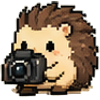
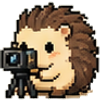
feat: 캐릭터명 수정 + 8축 순서 재설정 + 구분선 (118차-3)
- char_name 원본 설계도 기준으로 수정
  rabbit(새싹/탐험/전설의), owl(새내기/지혜로운/현자/대현자 부엉이),
  bear(손님/주민/단골/터줏대감/숲의전설 곰), fox(수습/탐정/명탐정/전설의탐정 여우),
  sparrow(공감받는/인기/스타/전설의 참새), hedgehog(기록가/포토마스터/작가),
  rare_night(밤의 순찰자), hamster_lv5(전설의 평론가 햄스터)
- 8개 축 표시 순서 재설정: 함께한날>플레이>새게임 / 기록>사진>게임평>최초기록 / 홈페이지
- 다음 업적 목표 구분선 2개 추가, 업적 전체 목록도 동일 그룹 순서 적용
- hedgehog 이미지 파일 교체

diff --git a/assets/js/achievements.js b/assets/js/achievements.js
@@ -36,20 +36,20 @@
       rewards: { character: 'cottage_master', char_name: '코티지 마스터', title: 'title_record_500' } },
     // ── first_record (부엉이) ── 해당 game_id 최초 기록 작성자 기준
     { id: 'first_record_1',  name: '첫 개척',         emoji: '🗺', type: 'first_record', threshold: 1,
-      rewards: { character: 'owl_lv1', char_name: '탐구 올빼미' } },
+      rewards: { character: 'owl_lv1', char_name: '새내기 부엉이' } },
     { id: 'first_record_3',  name: '세 게임 개척',    emoji: '⛺', type: 'first_record', threshold: 3,
       rewards: { title: 'title_first_record_3' } },
     { id: 'first_record_5',  name: '다섯 게임 개척',  emoji: '🧭', type: 'first_record', threshold: 5,
-      rewards: { character: 'owl_lv2', char_name: '연구 올빼미' } },
+      rewards: { character: 'owl_lv2', char_name: '지혜로운 부엉이' } },
     { id: 'first_record_10', name: '개척자',          emoji: '🌟', type: 'first_record', threshold: 10,
       rewards: { title: 'title_first_record_10' } },
     { id: 'first_record_20', name: '코티지 개척단',   emoji: '🏅', type: 'first_record', threshold: 20,
-      rewards: { character: 'owl_lv3', char_name: '박학 올빼미' } },
+      rewards: { character: 'owl_lv3', char_name: '현자 부엉이' } },
     { id: 'first_record_50', name: '전설의 개척자',   emoji: '✨', type: 'first_record', threshold: 50,
-      rewards: { character: 'owl_lv4', char_name: '전설 올빼미', title: 'title_first_record_50', voucher: true } },
+      rewards: { character: 'owl_lv4', char_name: '대현자 부엉이', title: 'title_first_record_50', voucher: true } },
     // ── new_game (토끼) ── 작성자 기준 새 게임 탐험
     { id: 'new_game_1',   name: '첫 탐험',           emoji: '✨', type: 'new_game', threshold: 1,
-      rewards: { character: 'rabbit_lv1', char_name: '탐험 토끼' } },
+      rewards: { character: 'rabbit_lv1', char_name: '새싹 토끼' } },
     { id: 'new_game_3',   name: '게임 입문',         emoji: '🎮', type: 'new_game', threshold: 3,   rewards: {} },
     { id: 'new_game_5',   name: '다섯 번째 탐험',    emoji: '🔍', type: 'new_game', threshold: 5,
       rewards: { character: 'rabbit_lv2', char_name: '호기심 토끼' } },
@@ -57,7 +57,7 @@
     { id: 'new_game_10',  name: '열 가지 탐험',      emoji: '🎲', type: 'new_game', threshold: 10,  rewards: {} },
     { id: 'new_game_15',  name: '게임 수집가',       emoji: '🐰', type: 'new_game', threshold: 15,  rewards: {} },
     { id: 'new_game_20',  name: '스무 가지 탐험',    emoji: '🎒', type: 'new_game', threshold: 20,
-      rewards: { character: 'rabbit_lv3', char_name: '모험 토끼', voucher: true } },
+      rewards: { character: 'rabbit_lv3', char_name: '탐험 토끼', voucher: true } },
     { id: 'new_game_30',  name: '서른 가지 탐험',    emoji: '🗺', type: 'new_game', threshold: 30,
       rewards: { title: 'title_new_game_30' } },
     { id: 'new_game_40',  name: '게임 전도사',       emoji: '📢', type: 'new_game', threshold: 40,  rewards: {} },
@@ -73,27 +73,27 @@
       rewards: { title: 'title_new_game_200' } },
     { id: 'new_game_250', name: '핼러윈 수집가',     emoji: '🎃', type: 'new_game', threshold: 250, rewards: {} },
     { id: 'new_game_300', name: '삼백 종 탐험',      emoji: '🌍', type: 'new_game', threshold: 300,
-      rewards: { character: 'rabbit_lv6', char_name: '방랑 토끼', title: 'title_new_game_300' } },
+      rewards: { character: 'rabbit_lv6', char_name: '전설의 토끼', title: 'title_new_game_300' } },
     // ── play (곰) ── player_names 닉네임 기반 보조 업적
     { id: 'play_5',   name: '게임 친구',       emoji: '🤝', type: 'play', threshold: 5,   rewards: {} },
     { id: 'play_10',  name: '활발한 참여자',   emoji: '🎮', type: 'play', threshold: 10,
-      rewards: { character: 'bear_lv1', char_name: '단골 곰' } },
+      rewards: { character: 'bear_lv1', char_name: '손님 곰' } },
     { id: 'play_20',  name: '게임 동반자',     emoji: '🎲', type: 'play', threshold: 20,
       rewards: { title: 'title_play_20' } },
     { id: 'play_30',  name: '코티지 플레이어', emoji: '🎯', type: 'play', threshold: 30,  rewards: {} },
     { id: 'play_50',  name: '코티지 피플',     emoji: '🌟', type: 'play', threshold: 50,
-      rewards: { character: 'bear_lv2', char_name: '활발한 곰' } },
+      rewards: { character: 'bear_lv2', char_name: '주민 곰' } },
     { id: 'play_100', name: '백전노장',        emoji: '🏆', type: 'play', threshold: 100,
-      rewards: { character: 'rare_night', char_name: '밤의 올빼미', voucher: true } },
+      rewards: { character: 'rare_night', char_name: '밤의 순찰자', voucher: true } },
     { id: 'play_150', name: '코티지 레전드',   emoji: '⚜', type: 'play', threshold: 150,
-      rewards: { character: 'bear_lv3', char_name: '놀이 곰돌이' } },
+      rewards: { character: 'bear_lv3', char_name: '단골 곰' } },
     { id: 'play_200', name: '게임왕',          emoji: '👑', type: 'play', threshold: 200,
       rewards: { title: 'title_play_200' } },
     { id: 'play_300', name: '코티지 신화',     emoji: '🌙', type: 'play', threshold: 300, rewards: {} },
     { id: 'play_400', name: '전설의 게이머',   emoji: '✨', type: 'play', threshold: 400,
-      rewards: { character: 'bear_lv4', char_name: '코티지 곰' } },
+      rewards: { character: 'bear_lv4', char_name: '터줏대감 곰' } },
     { id: 'play_500', name: '코티지 마스터',   emoji: '✨', type: 'play', threshold: 500,
-      rewards: { character: 'bear_lv5', char_name: '동면 곰', title: 'title_play_500' } },
+      rewards: { character: 'bear_lv5', char_name: '숲의 전설 곰', title: 'title_play_500' } },
     // ── photo (고슴도치)
     { id: 'photo_1',   name: '첫 사진',           emoji: '📸', type: 'photo', threshold: 1,
       rewards: { character: 'hedgehog_lv1', char_name: '초보 고슴도치' } },
@@ -103,17 +103,17 @@
     { id: 'photo_10',  name: '순간 수집',          emoji: '🖼', type: 'photo', threshold: 10,
       rewards: { title: 'title_photo_10' } },
     { id: 'photo_20',  name: '스무 장의 기록',     emoji: '🎞', type: 'photo', threshold: 20,
-      rewards: { character: 'hedgehog_lv2', char_name: '기록 고슴도치' } },
+      rewards: { character: 'hedgehog_lv2', char_name: '기록가 고슴도치' } },
     { id: 'photo_30',  name: '사진 작가',          emoji: '📷', type: 'photo', threshold: 30,  rewards: {} },
     { id: 'photo_50',  name: '기억 포착',          emoji: '🎞', type: 'photo', threshold: 50,
       rewards: { title: 'title_photo_50' } },
     { id: 'photo_75',  name: '필름 요정',          emoji: '🧚', type: 'photo', threshold: 75,  rewards: {} },
     { id: 'photo_100', name: '백 장의 기억',       emoji: '📷', type: 'photo', threshold: 100,
-      rewards: { character: 'hedgehog_lv3', char_name: '기록가 고슴도치', voucher: true } },
+      rewards: { character: 'hedgehog_lv3', char_name: '포토마스터 고슴도치', voucher: true } },
     { id: 'photo_150', name: '사진 마스터',        emoji: '🎨', type: 'photo', threshold: 150,
       rewards: { title: 'title_photo_150' } },
     { id: 'photo_200', name: '이백 장의 추억',     emoji: '🎨', type: 'photo', threshold: 200,
-      rewards: { character: 'hedgehog_lv4', char_name: '포토마스터 고슴도치' } },
+      rewards: { character: 'hedgehog_lv4', char_name: '작가 고슴도치' } },
     { id: 'photo_300', name: '사진 예술가',        emoji: '🖼', type: 'photo', threshold: 300,
       rewards: { title: 'title_photo_300' } },
     { id: 'photo_500', name: '전설의 사진가',      emoji: '🎭', type: 'photo', threshold: 500,
@@ -146,28 +146,28 @@
     { id: 'review_300', name: '삼백 번의 감상',     emoji: '🏆', type: 'review', threshold: 300,
       rewards: { title: 'title_review_300' } },
     { id: 'review_500', name: '전설의 리뷰어',      emoji: '✨', type: 'review', threshold: 500,
-      rewards: { character: 'hamster_lv5', char_name: '마스터 햄스터' } },
+      rewards: { character: 'hamster_lv5', char_name: '전설의 평론가 햄스터' } },
     // ── visit (참새)
     { id: 'visit_3',   name: '코티지 방문객',      emoji: '✨', type: 'visit', threshold: 3,
-      rewards: { character: 'sparrow_lv1', char_name: '방문 참새' } },
+      rewards: { character: 'sparrow_lv1', char_name: '공감받는 참새' } },
     { id: 'visit_5',   name: '코티지 친구',        emoji: '🤗', type: 'visit', threshold: 5,   rewards: {} },
     { id: 'visit_10',  name: '코티지 단골',        emoji: '☕', type: 'visit', threshold: 10,
       rewards: { title: 'title_visit_10' } },
     { id: 'visit_15',  name: '코티지 팬',          emoji: '💙', type: 'visit', threshold: 15,  rewards: {} },
     { id: 'visit_20',  name: '코티지 단골 Lv2',   emoji: '☕', type: 'visit', threshold: 20,
-      rewards: { character: 'sparrow_lv2', char_name: '단골 참새' } },
+      rewards: { character: 'sparrow_lv2', char_name: '인기 참새' } },
     { id: 'visit_25',  name: '코티지의 기둥',      emoji: '🏛', type: 'visit', threshold: 25,  rewards: {} },
     { id: 'visit_30',  name: '코티지 이웃',        emoji: '🏡', type: 'visit', threshold: 30,
       rewards: { title: 'title_visit_30' } },
     { id: 'visit_40',  name: '오랜 인연',          emoji: '🤝', type: 'visit', threshold: 40,  rewards: {} },
     { id: 'visit_50',  name: '코티지 주민',        emoji: '🔥', type: 'visit', threshold: 50,
-      rewards: { character: 'sparrow_lv3', char_name: '주민 참새' } },
+      rewards: { character: 'sparrow_lv3', char_name: '스타 참새' } },
     { id: 'visit_75',  name: '코티지 충성단',      emoji: '⚔', type: 'visit', threshold: 75,  rewards: {} },
     { id: 'visit_100', name: '터줏대감',           emoji: '🌳', type: 'visit', threshold: 100,
       rewards: { title: 'title_visit_100' } },
     { id: 'visit_150', name: '코티지 수호자',      emoji: '🛡', type: 'visit', threshold: 150, rewards: {} },
     { id: 'visit_200', name: '코티지의 오랜 친구', emoji: '🐦', type: 'visit', threshold: 200,
-      rewards: { character: 'sparrow_lv4', char_name: '코티지 참새', voucher: true } },
+      rewards: { character: 'sparrow_lv4', char_name: '전설의 참새', voucher: true } },
     { id: 'visit_300', name: '코티지 원로',        emoji: '👑', type: 'visit', threshold: 300,
       rewards: { title: 'title_visit_300' } },
     { id: 'visit_400', name: '코티지의 산타',      emoji: '🎄', type: 'visit', threshold: 400, rewards: {} },
@@ -176,17 +176,17 @@
     // ── balance (여우) ── 함께한 날. 매장에 함께한 고유 날짜 수. user_id 작성자 + player_names 참여자 병행.
     // [임시] player_names 텍스트 기반 보조 판정. 장기적으로 game_play_participants 테이블로 전환 예정.
     { id: 'balance_10',  name: '다재다능',      emoji: '🦊', type: 'balance', threshold: 10,
-      rewards: { character: 'fox_lv1', char_name: '감상 여우' } },
+      rewards: { character: 'fox_lv1', char_name: '수습 여우' } },
     { id: 'balance_30',  name: '균형의 시작',   emoji: '🦊', type: 'balance', threshold: 30,
       rewards: { title: 'title_balance_30' } },
     { id: 'balance_50',  name: '올라운더',      emoji: '🦊', type: 'balance', threshold: 50,
-      rewards: { character: 'fox_lv2', char_name: '취향 여우' } },
+      rewards: { character: 'fox_lv2', char_name: '탐정 여우' } },
     { id: 'balance_100', name: '균형의 달인',   emoji: '🦊', type: 'balance', threshold: 100,
       rewards: { title: 'title_balance_100' } },
     { id: 'balance_200', name: '박식한 여우',   emoji: '🦊', type: 'balance', threshold: 200,
-      rewards: { character: 'fox_lv3', char_name: '박식한 여우' } },
+      rewards: { character: 'fox_lv3', char_name: '명탐정 여우' } },
     { id: 'balance_300', name: '코티지의 전설', emoji: '🦊', type: 'balance', threshold: 300,
-      rewards: { character: 'fox_lv4', char_name: '코티지 여우', title: 'title_balance_300' } },
+      rewards: { character: 'fox_lv4', char_name: '전설의 탐정 여우', title: 'title_balance_300' } },
   ];
 
   // 칭호 정의 — 연결 관계는 ACH_DEFS.rewards.title이 담당 (역참조 필드 없음)
@@ -586,7 +586,7 @@
           `</div>`
         : '';
 
-      const _TITLE_AXES = ['record', 'first_record', 'new_game', 'play', 'photo', 'review', 'visit', 'balance'];
+      const _TITLE_AXES = ['balance', 'play', 'new_game', 'record', 'photo', 'review', 'first_record', 'visit'];
       const _topTitlePerAxis = _TITLE_AXES.map(axis => {
         const axisTitles = TITLE_DEFS.filter(def => {
           const achId = _titleToAchId[def.id];
@@ -728,7 +728,7 @@
         `${progressLabel}` +
         `</button>`;
     });
-    const _CHAR_AXES = ['record', 'first_record', 'new_game', 'play', 'photo', 'review', 'visit', 'balance'];
+    const _CHAR_AXES = ['balance', 'play', 'new_game', 'record', 'photo', 'review', 'first_record', 'visit'];
     const _topCharPerAxis = _CHAR_AXES.map(axis => {
       const earnedAxis = CHAR_DEFS.filter(d => d.type === axis && earnedIds.has(d.id) && !d.rewards.character.startsWith('rare_'));
       return earnedAxis.length ? earnedAxis[earnedAxis.length - 1] : null;
@@ -790,11 +790,12 @@
     const earnedIds = new Set(earned.map(a => a.id));
     const COUNTS = { record: playCount, new_game: distinctCount, photo: photoCount, review: ratingCount, visit: visitCount, first_record: firstRecordCount, play: participationCount, balance: uniqueDayCount };
 
-    const itemsAll = ACH_DEFS.map(def => {
+    const _ACH_TYPE_ORDER = ['balance', 'play', 'new_game', 'record', 'photo', 'review', 'first_record', 'visit'];
+    const _ACH_DIVIDER_AFTER = new Set(['new_game', 'first_record']);
+    const _renderAchItem = def => {
       const done = earnedIds.has(def.id);
       const cur = Math.min(COUNTS[def.type] || 0, def.threshold);
       const typeLabel = TYPE_LABELS[def.type] || def.type;
-
       const rewardParts = [];
       if (def.rewards?.character) rewardParts.push('🐾 캐릭터');
       if (def.rewards?.title) rewardParts.push('🏷 칭호');
@@ -802,7 +803,6 @@
       const rewardHtml = rewardParts.length
         ? `<span class="profile-ach-reward">${done ? '획득한 보상' : '받을 보상'}: ${rewardParts.join(' · ')}</span>`
         : '';
-
       let iconHtml;
       if (def.rewards?.character && done) {
         const imgSrc = `/assets/images/characters/characters_basic/${def.rewards.character}.png`;
@@ -812,32 +812,48 @@
       } else {
         iconHtml = `<span class="profile-ach-img-lock">${def.emoji}</span>`;
       }
-
       const statusCls = done ? ' is-done' : '';
       const statusText = done ? `✓ ${typeLabel} · ${def.threshold}` : `${typeLabel} · ${cur}/${def.threshold}`;
-
       return `<li class="profile-ach-item${done ? ' is-achieved' : ' is-locked'}">` +
         `${iconHtml}` +
         `<div class="profile-ach-info"><span class="profile-ach-name">${def.name}</span>${rewardHtml}</div>` +
         `<span class="profile-ach-status${statusCls}">${statusText}</span></li>`;
+    };
+    const itemsAll = [];
+    let _lastType = null;
+    [...ACH_DEFS].sort((a, b) => _ACH_TYPE_ORDER.indexOf(a.type) - _ACH_TYPE_ORDER.indexOf(b.type)).forEach(def => {
+      if (_lastType && _lastType !== def.type && _ACH_DIVIDER_AFTER.has(_lastType)) {
+        itemsAll.push(`<li class="profile-ach-goal-divider"></li>`);
+      }
+      itemsAll.push(_renderAchItem(def));
+      _lastType = def.type;
     });
 
-    const _GOAL_AXES = [
-      { type: 'record',       emoji: '🐿', label: '기록',      unit: '회' },
-      { type: 'first_record', emoji: '🦉', label: '최초기록',  unit: '종' },
-      { type: 'new_game',     emoji: '🐰', label: '새게임',    unit: '종' },
-      { type: 'play',         emoji: '🐻', label: '플레이',    unit: '회' },
-      { type: 'photo',        emoji: '🦔', label: '사진',      unit: '장' },
-      { type: 'review',       emoji: '🐹', label: '게임평',    unit: '개' },
-      { type: 'visit',        emoji: '🐦', label: '홈페이지',  unit: '일' },
-      { type: 'balance',      emoji: '🦊', label: '함께한 날', unit: '일' },
+    const _GOAL_AXES_GROUPS = [
+      [
+        { type: 'balance',  emoji: '🦊', label: '함께한 날', unit: '일' },
+        { type: 'play',     emoji: '🐻', label: '플레이',    unit: '회' },
+        { type: 'new_game', emoji: '🐰', label: '새게임',    unit: '종' },
+      ],
+      [
+        { type: 'record',       emoji: '🐿', label: '기록',     unit: '회' },
+        { type: 'photo',        emoji: '🦔', label: '사진',     unit: '장' },
+        { type: 'review',       emoji: '🐹', label: '게임평',   unit: '개' },
+        { type: 'first_record', emoji: '🦉', label: '최초기록', unit: '종' },
+      ],
+      [
+        { type: 'visit', emoji: '🐦', label: '홈페이지', unit: '일' },
+      ],
     ];
-    const _goalsHtml = _GOAL_AXES.map(({ type, emoji, label, unit }) => {
-      const cur = COUNTS[type] || 0;
-      const allDone = ACH_DEFS.filter(d => d.type === type).every(d => earnedIds.has(d.id));
-      const nextDef = allDone ? null : ACH_DEFS.filter(d => d.type === type && !earnedIds.has(d.id) && d.threshold > cur).sort((a, b) => a.threshold - b.threshold)[0];
-      const progressText = allDone ? `${cur}${unit}` : (nextDef ? `${cur}/${nextDef.threshold}${unit}` : `${cur}${unit}`);
-      return `<li class="profile-ach-goal-item"><span class="profile-ach-goal-axis">${emoji} ${label}</span><span class="${allDone ? 'profile-ach-goal-done' : 'profile-ach-goal-progress'}">${progressText}</span></li>`;
+    const _goalsHtml = _GOAL_AXES_GROUPS.map((group, gi) => {
+      const items = group.map(({ type, emoji, label, unit }) => {
+        const cur = COUNTS[type] || 0;
+        const allDone = ACH_DEFS.filter(d => d.type === type).every(d => earnedIds.has(d.id));
+        const nextDef = allDone ? null : ACH_DEFS.filter(d => d.type === type && !earnedIds.has(d.id) && d.threshold > cur).sort((a, b) => a.threshold - b.threshold)[0];
+        const progressText = allDone ? `${cur}${unit}` : (nextDef ? `${cur}/${nextDef.threshold}${unit}` : `${cur}${unit}`);
+        return `<li class="profile-ach-goal-item"><span class="profile-ach-goal-axis">${emoji} ${label}</span><span class="${allDone ? 'profile-ach-goal-done' : 'profile-ach-goal-progress'}">${progressText}</span></li>`;
+      }).join('');
+      return items + (gi < _GOAL_AXES_GROUPS.length - 1 ? `<li class="profile-ach-goal-divider"></li>` : '');
     }).join('');
     const _goalsDiv = `<div class="profile-ach-goals-wrap"><span class="profile-ach-goals-header">🎯 다음 업적</span><ul class="profile-ach-goals">${_goalsHtml}</ul></div>`;
     const _achListHtml = `<ul class="profile-ach-list is-hidden">${itemsAll.join('')}</ul>`;

diff --git a/assets/css/style.css b/assets/css/style.css
@@ -3722,6 +3722,7 @@ body.sheet-open{
 .profile-ach-goal-progress{color:var(--muted);}
 .profile-ach-goal-reward{color:#b0a090;margin-left:2px;}
 .profile-ach-goal-done{color:#4caf50;font-size:11px;}
+.profile-ach-goal-divider{height:1px;background:var(--border,#e8e4dc);margin:3px 0;padding:0;list-style:none;}
 .profile-ach-list{list-style:none;padding:0;margin:10px 0 0;display:flex;flex-direction:column;gap:8px;}
 .profile-ach-list.is-hidden{display:none;}
 .profile-ach-item{display:flex;align-items:center;gap:8px;}
